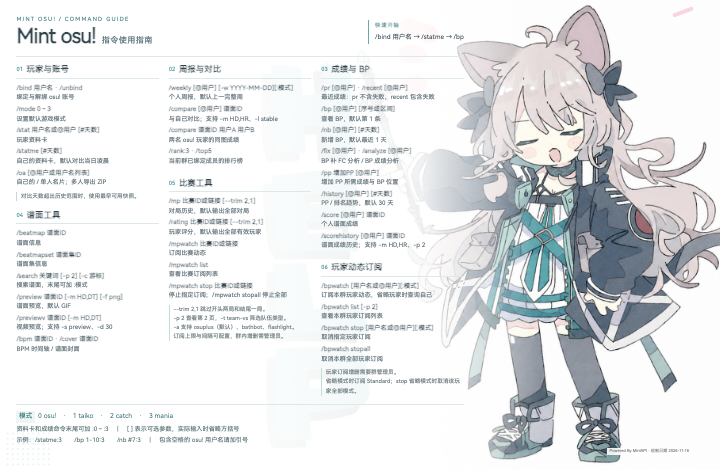
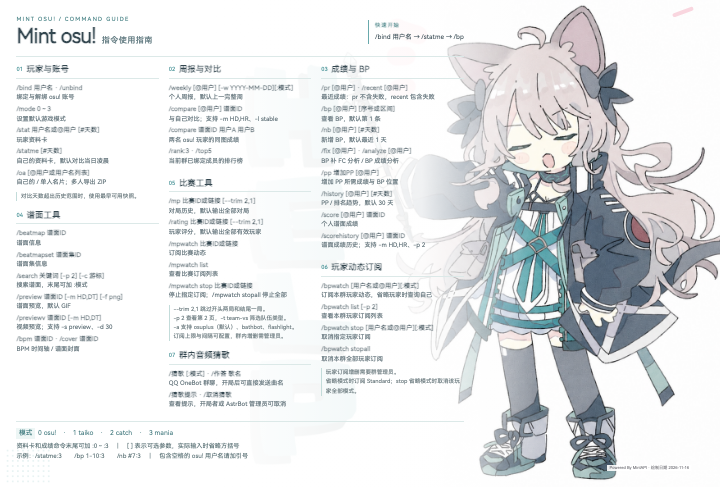
docs: :memo: 帮助海报加入群内音频猜歌

diff --git a/docs/designs/minthelp/minthelp.html b/docs/designs/minthelp/minthelp.html
@@ -2,6 +2,6 @@
 @font-face{font-family:Harmony;src:url('../../../MintAPI/wwwroot/fonts/HarmonyOS_Sans_SC_Regular.ttf')}*{box-sizing:border-box}html,body{margin:0;width:2800px;background:white;color:#344750;font-family:Harmony,'Arial',sans-serif}body{position:relative;min-height:1640px;padding:64px 64px 64px;isolation:isolate}.art{position:absolute;right:0;top:0;bottom:0;width:2000px;overflow:hidden;z-index:-2}.art img{position:absolute;height:100%;width:auto;max-width:none;right:-100px;top:0}.art:after{content:"";position:absolute;inset:0;background:linear-gradient(90deg,white 0%,rgba(255,255,255,.94) 25%,rgba(255,255,255,.90) 42%,rgba(255,255,255,.45) 55%,transparent 65%)}.ring{position:absolute;width:540px;height:540px;border:65px solid #eef7f6;border-radius:50%;right:65px;top:50px;z-index:-3}.dots{position:absolute;left:20px;bottom:16px;width:180px;height:140px;background:radial-gradient(#b8d9d9 2px,transparent 3px) 0 0/20px 20px;opacity:.5;z-index:-1}header{width:1740px;display:flex;align-items:center;justify-content:space-between;border-bottom:2px solid #dce9e8;padding-bottom:32px;margin-bottom:30px}.eyebrow{font-size:22px;letter-spacing:5px;color:#598e91}h1{font-size:80px;line-height:1.12;margin:8px 0 0;letter-spacing:-3px}h1 small{font-size:32px;letter-spacing:1px;font-weight:400;margin-left:24px;color:#698187}.start{border-left:4px solid #69a9ac;padding-left:24px;font-size:25px;line-height:1.8}.start b{font-size:21px;letter-spacing:3px;color:#598e91}.grid{display:grid;grid-template-columns:repeat(3,minmax(0,1fr));gap:38px;width:1740px;align-items:start}.column{display:flex;flex-direction:column;gap:36px}section{min-width:0}h2{display:flex;align-items:center;gap:14px;font-size:33px;margin:0 0 20px;padding-bottom:13px;border-bottom:2px solid #dce9e8}h2 i{font-style:normal;font-size:22px;color:#5b9ea2;font-weight:400}.entry{margin:0 0 12px}strong{font-size:25px;line-height:1.35;display:block;font-weight:600;overflow-wrap:anywhere}p{font-size:24px;line-height:1.4;color:#718087;margin:3px 0 0}aside{font-size:22px;line-height:1.6;color:#78868a;border-left:3px solid #c3dcda;padding-left:14px;margin-top:20px}footer{width:1740px;border-top:2px solid #dce9e8;margin-top:34px;padding-top:23px;font-size:24px;line-height:1.7;color:#61777b}.mode{color:#3f777c;font-size:26px;margin-bottom:7px}.tag{display:inline-block;background:#edf6f5;padding:0 10px;color:#457f83;margin-right:12px}.slash{position:absolute;right:100px;top:38px;width:85px;height:16px;background:#f9d6df;transform:rotate(-20deg);border-radius:12px}.mint-attribution{z-index:3!important;background:rgba(255,255,255,.9);padding:4px 8px!important}
 </style></head><body><div class="ring"></div><div class="art"><img src="../../../MintAPI/wwwroot/assets/help/minthelp-background-help.png" alt=""></div><div class="dots"></div><div class="slash"></div>
 <header><div><div class="eyebrow">MINT OSU! / COMMAND GUIDE</div><h1>Mint osu!<small>指令使用指南</small></h1></div><div class="start"><b>快速开始</b><br>/bind 用户名 → /statme → /bp</div></header>
-<main class="grid"><div class="column"><section><h2><i>01</i>玩家与账号</h2><div class="entry"><strong>/bind 用户名 · /unbind</strong><p>绑定与解绑 osu! 账号</p></div><div class="entry"><strong>/mode 0～3</strong><p>设置默认游戏模式</p></div><div class="entry"><strong>/stat 用户名或@用户 [#天数]</strong><p>玩家资料卡</p></div><div class="entry"><strong>/statme [#天数]</strong><p>自己的资料卡，默认对比当日凌晨</p></div><div class="entry"><strong>/oa [@用户或用户名列表]</strong><p>自己的 / 单人名片；多人导出 ZIP</p></div><aside>对比天数超出历史范围时，使用最早可用快照。</aside></section><section><h2><i>04</i>谱面工具</h2><div class="entry"><strong>/beatmap 谱面ID</strong><p>谱面信息</p></div><div class="entry"><strong>/beatmapset 谱面集ID</strong><p>谱面集信息</p></div><div class="entry"><strong>/search 关键词 [-p 2] [-c 游标]</strong><p>搜索谱面，末尾可加 :模式</p></div><div class="entry"><strong>/preview 谱面ID [-m HD,DT] [-f png]</strong><p>谱面预览，默认 GIF</p></div><div class="entry"><strong>/previewv 谱面ID [-m HD,DT]</strong><p>视频预览；支持 -s preview、-d 30</p></div><div class="entry"><strong>/bpm 谱面ID · /cover 谱面ID</strong><p>BPM 时间轴 / 谱面封面</p></div></section></div><div class="column"><section><h2><i>02</i>周报与对比</h2><div class="entry"><strong>/weekly [@用户] [-w YYYY-MM-DD][:模式]</strong><p>个人周报，默认上一完整周</p></div><div class="entry"><strong>/compare [@用户] 谱面ID</strong><p>与自己对比；支持 -m HD,HR、-l stable</p></div><div class="entry"><strong>/compare 谱面ID 用户A 用户B</strong><p>两名 osu! 玩家的同图成绩</p></div><div class="entry"><strong>/rank:3 · /top5</strong><p>当前群已绑定成员的排行榜</p></div></section><section><h2><i>05</i>比赛工具</h2><div class="entry"><strong>/mp 比赛ID或链接 [--trim 2,1]</strong><p>对局历史，默认输出全部对局</p></div><div class="entry"><strong>/rating 比赛ID或链接 [--trim 2,1]</strong><p>玩家评分，默认输出全部有效玩家</p></div><div class="entry"><strong>/mpwatch 比赛ID或链接</strong><p>订阅比赛动态</p></div><div class="entry"><strong>/mpwatch list</strong><p>查看比赛订阅列表</p></div><div class="entry"><strong>/mpwatch stop 比赛ID或链接</strong><p>停止指定订阅；/mpwatch stopall 停止全部</p></div><aside>--trim 2,1 跳过开头两局和结尾一局。<br>-p 2 查看第 2 页，-t team-vs 筛选队伍类型。<br>-a 支持 osuplus（默认）、bathbot、flashlight。<br>订阅上限与间隔可配置，群内增删需管理员。</aside></section></div><div class="column"><section><h2><i>03</i>成绩与 BP</h2><div class="entry"><strong>/pr [@用户] · /recent [@用户]</strong><p>最近成绩：pr 不含失败，recent 包含失败</p></div><div class="entry"><strong>/bp [@用户] [序号或区间]</strong><p>查看 BP，默认第 1 条</p></div><div class="entry"><strong>/nb [@用户] [#天数]</strong><p>新增 BP，默认最近 1 天</p></div><div class="entry"><strong>/fix [@用户] · /analyze [@用户]</strong><p>BP 补 FC 分析 / BP 成绩分析</p></div><div class="entry"><strong>/pp 增加PP [@用户]</strong><p>增加 PP 所需成绩与 BP 位置</p></div><div class="entry"><strong>/history [@用户] [#天数]</strong><p>PP / 排名趋势，默认 30 天</p></div><div class="entry"><strong>/score [@用户] 谱面ID</strong><p>个人谱面成绩</p></div><div class="entry"><strong>/scorehistory [@用户] 谱面ID</strong><p>谱面成绩历史；支持 -m HD,HR、-p 2</p></div></section><section><h2><i>06</i>玩家动态订阅</h2><div class="entry"><strong>/bpwatch [用户名或@用户][:模式]</strong><p>订阅本群玩家动态，省略玩家时查询自己</p></div><div class="entry"><strong>/bpwatch list [-p 2]</strong><p>查看本群玩家订阅列表</p></div><div class="entry"><strong>/bpwatch stop [用户名或@用户][:模式]</strong><p>取消指定玩家订阅</p></div><div class="entry"><strong>/bpwatch stopall</strong><p>取消本群全部玩家订阅</p></div><aside>玩家订阅增删需要群管理员。<br>省略模式时订阅 Standard；stop 省略模式时取消该玩家全部模式。</aside></section></div></main>
+<main class="grid"><div class="column"><section><h2><i>01</i>玩家与账号</h2><div class="entry"><strong>/bind 用户名 · /unbind</strong><p>绑定与解绑 osu! 账号</p></div><div class="entry"><strong>/mode 0～3</strong><p>设置默认游戏模式</p></div><div class="entry"><strong>/stat 用户名或@用户 [#天数]</strong><p>玩家资料卡</p></div><div class="entry"><strong>/statme [#天数]</strong><p>自己的资料卡，默认对比当日凌晨</p></div><div class="entry"><strong>/oa [@用户或用户名列表]</strong><p>自己的 / 单人名片；多人导出 ZIP</p></div><aside>对比天数超出历史范围时，使用最早可用快照。</aside></section><section><h2><i>04</i>谱面工具</h2><div class="entry"><strong>/beatmap 谱面ID</strong><p>谱面信息</p></div><div class="entry"><strong>/beatmapset 谱面集ID</strong><p>谱面集信息</p></div><div class="entry"><strong>/search 关键词 [-p 2] [-c 游标]</strong><p>搜索谱面，末尾可加 :模式</p></div><div class="entry"><strong>/preview 谱面ID [-m HD,DT] [-f png]</strong><p>谱面预览，默认 GIF</p></div><div class="entry"><strong>/previewv 谱面ID [-m HD,DT]</strong><p>视频预览；支持 -s preview、-d 30</p></div><div class="entry"><strong>/bpm 谱面ID · /cover 谱面ID</strong><p>BPM 时间轴 / 谱面封面</p></div></section></div><div class="column"><section><h2><i>02</i>周报与对比</h2><div class="entry"><strong>/weekly [@用户] [-w YYYY-MM-DD][:模式]</strong><p>个人周报，默认上一完整周</p></div><div class="entry"><strong>/compare [@用户] 谱面ID</strong><p>与自己对比；支持 -m HD,HR、-l stable</p></div><div class="entry"><strong>/compare 谱面ID 用户A 用户B</strong><p>两名 osu! 玩家的同图成绩</p></div><div class="entry"><strong>/rank:3 · /top5</strong><p>当前群已绑定成员的排行榜</p></div></section><section><h2><i>05</i>比赛工具</h2><div class="entry"><strong>/mp 比赛ID或链接 [--trim 2,1]</strong><p>对局历史，默认输出全部对局</p></div><div class="entry"><strong>/rating 比赛ID或链接 [--trim 2,1]</strong><p>玩家评分，默认输出全部有效玩家</p></div><div class="entry"><strong>/mpwatch 比赛ID或链接</strong><p>订阅比赛动态</p></div><div class="entry"><strong>/mpwatch list</strong><p>查看比赛订阅列表</p></div><div class="entry"><strong>/mpwatch stop 比赛ID或链接</strong><p>停止指定订阅；/mpwatch stopall 停止全部</p></div><aside>--trim 2,1 跳过开头两局和结尾一局。<br>-p 2 查看第 2 页，-t team-vs 筛选队伍类型。<br>-a 支持 osuplus（默认）、bathbot、flashlight。<br>订阅上限与间隔可配置，群内增删需管理员。</aside></section><section><h2><i>07</i>群内音频猜歌</h2><div class="entry"><strong>/猜歌 [:模式] · /作答 歌名</strong><p>QQ OneBot 群聊，开局后可直接发送曲名</p></div><div class="entry"><strong>/猜歌提示 · /取消猜歌</strong><p>查看提示，开局者或 AstrBot 管理员可取消</p></div></section></div><div class="column"><section><h2><i>03</i>成绩与 BP</h2><div class="entry"><strong>/pr [@用户] · /recent [@用户]</strong><p>最近成绩：pr 不含失败，recent 包含失败</p></div><div class="entry"><strong>/bp [@用户] [序号或区间]</strong><p>查看 BP，默认第 1 条</p></div><div class="entry"><strong>/nb [@用户] [#天数]</strong><p>新增 BP，默认最近 1 天</p></div><div class="entry"><strong>/fix [@用户] · /analyze [@用户]</strong><p>BP 补 FC 分析 / BP 成绩分析</p></div><div class="entry"><strong>/pp 增加PP [@用户]</strong><p>增加 PP 所需成绩与 BP 位置</p></div><div class="entry"><strong>/history [@用户] [#天数]</strong><p>PP / 排名趋势，默认 30 天</p></div><div class="entry"><strong>/score [@用户] 谱面ID</strong><p>个人谱面成绩</p></div><div class="entry"><strong>/scorehistory [@用户] 谱面ID</strong><p>谱面成绩历史；支持 -m HD,HR、-p 2</p></div></section><section><h2><i>06</i>玩家动态订阅</h2><div class="entry"><strong>/bpwatch [用户名或@用户][:模式]</strong><p>订阅本群玩家动态，省略玩家时查询自己</p></div><div class="entry"><strong>/bpwatch list [-p 2]</strong><p>查看本群玩家订阅列表</p></div><div class="entry"><strong>/bpwatch stop [用户名或@用户][:模式]</strong><p>取消指定玩家订阅</p></div><div class="entry"><strong>/bpwatch stopall</strong><p>取消本群全部玩家订阅</p></div><aside>玩家订阅增删需要群管理员。<br>省略模式时订阅 Standard；stop 省略模式时取消该玩家全部模式。</aside></section></div></main>
 <footer><div class="mode"><span class="tag">模式</span>0 osu!　·　1 taiko　·　2 catch　·　3 mania</div>资料卡和成绩命令末尾可加 :0～:3　｜　[ ] 表示可选参数，实际输入时省略方括号<br>示例：/statme:3　　/bp 1-10:3　　/nb #7:3　｜　包含空格的 osu! 用户名请加引号</footer>
 <style>.mint-attribution{position:relative;display:block;width:max-content;margin:10px 48px 0 auto;padding-bottom:12px;text-align:right;font:400 16px/18px Arial,'PingFang SC','Microsoft YaHei',sans-serif;color:#86868b;white-space:nowrap;letter-spacing:0;z-index:1;}</style><div class="mint-attribution">Powered By MintAPI · 绘制日期 2026-11-16</div></body></html>

diff --git a/MintAPI/Rendering/HelpTheme/help.html b/MintAPI/Rendering/HelpTheme/help.html
@@ -2,6 +2,6 @@
 @font-face{font-family:Harmony;src:url('__FONT__')}*{box-sizing:border-box}html,body{margin:0;width:2800px;background:white;color:#344750;font-family:Harmony,'Arial',sans-serif}body{position:relative;min-height:1640px;padding:64px 64px 64px;isolation:isolate}.art{position:absolute;right:0;top:0;bottom:0;width:2000px;overflow:hidden;z-index:-2}.art img{position:absolute;height:100%;width:auto;max-width:none;right:-100px;top:0}.art:after{content:"";position:absolute;inset:0;background:linear-gradient(90deg,white 0%,rgba(255,255,255,.94) 25%,rgba(255,255,255,.90) 42%,rgba(255,255,255,.45) 55%,transparent 65%)}.ring{position:absolute;width:540px;height:540px;border:65px solid #eef7f6;border-radius:50%;right:65px;top:50px;z-index:-3}.dots{position:absolute;left:20px;bottom:16px;width:180px;height:140px;background:radial-gradient(#b8d9d9 2px,transparent 3px) 0 0/20px 20px;opacity:.5;z-index:-1}header{width:1740px;display:flex;align-items:center;justify-content:space-between;border-bottom:2px solid #dce9e8;padding-bottom:32px;margin-bottom:30px}.eyebrow{font-size:22px;letter-spacing:5px;color:#598e91}h1{font-size:80px;line-height:1.12;margin:8px 0 0;letter-spacing:-3px}h1 small{font-size:32px;letter-spacing:1px;font-weight:400;margin-left:24px;color:#698187}.start{border-left:4px solid #69a9ac;padding-left:24px;font-size:25px;line-height:1.8}.start b{font-size:21px;letter-spacing:3px;color:#598e91}.grid{display:grid;grid-template-columns:repeat(3,minmax(0,1fr));gap:38px;width:1740px;align-items:start}.column{display:flex;flex-direction:column;gap:36px}section{min-width:0}h2{display:flex;align-items:center;gap:14px;font-size:33px;margin:0 0 20px;padding-bottom:13px;border-bottom:2px solid #dce9e8}h2 i{font-style:normal;font-size:22px;color:#5b9ea2;font-weight:400}.entry{margin:0 0 12px}strong{font-size:25px;line-height:1.35;display:block;font-weight:600;overflow-wrap:anywhere}p{font-size:24px;line-height:1.4;color:#718087;margin:3px 0 0}aside{font-size:22px;line-height:1.6;color:#78868a;border-left:3px solid #c3dcda;padding-left:14px;margin-top:20px}footer{width:1740px;border-top:2px solid #dce9e8;margin-top:34px;padding-top:23px;font-size:24px;line-height:1.7;color:#61777b}.mode{color:#3f777c;font-size:26px;margin-bottom:7px}.tag{display:inline-block;background:#edf6f5;padding:0 10px;color:#457f83;margin-right:12px}.slash{position:absolute;right:100px;top:38px;width:85px;height:16px;background:#f9d6df;transform:rotate(-20deg);border-radius:12px}.mint-attribution{z-index:3!important;background:rgba(255,255,255,.9);padding:4px 8px!important}
 </style></head><body><div class="ring"></div><div class="art"><img src="__BACKGROUND__" alt=""></div><div class="dots"></div><div class="slash"></div>
 <header><div><div class="eyebrow">MINT OSU! / COMMAND GUIDE</div><h1>Mint osu!<small>指令使用指南</small></h1></div><div class="start"><b>快速开始</b><br>/bind 用户名 → /statme → /bp</div></header>
-<main class="grid"><div class="column"><section><h2><i>01</i>玩家与账号</h2><div class="entry"><strong>/bind 用户名 · /unbind</strong><p>绑定与解绑 osu! 账号</p></div><div class="entry"><strong>/mode 0～3</strong><p>设置默认游戏模式</p></div><div class="entry"><strong>/stat 用户名或@用户 [#天数]</strong><p>玩家资料卡</p></div><div class="entry"><strong>/statme [#天数]</strong><p>自己的资料卡，默认对比当日凌晨</p></div><div class="entry"><strong>/oa [@用户或用户名列表]</strong><p>自己的 / 单人名片；多人导出 ZIP</p></div><aside>对比天数超出历史范围时，使用最早可用快照。</aside></section><section><h2><i>04</i>谱面工具</h2><div class="entry"><strong>/beatmap 谱面ID</strong><p>谱面信息</p></div><div class="entry"><strong>/beatmapset 谱面集ID</strong><p>谱面集信息</p></div><div class="entry"><strong>/search 关键词 [-p 2] [-c 游标]</strong><p>搜索谱面，末尾可加 :模式</p></div><div class="entry"><strong>/preview 谱面ID [-m HD,DT] [-f png]</strong><p>谱面预览，默认 GIF</p></div><div class="entry"><strong>/previewv 谱面ID [-m HD,DT]</strong><p>视频预览；支持 -s preview、-d 30</p></div><div class="entry"><strong>/bpm 谱面ID · /cover 谱面ID</strong><p>BPM 时间轴 / 谱面封面</p></div></section></div><div class="column"><section><h2><i>02</i>周报与对比</h2><div class="entry"><strong>/weekly [@用户] [-w YYYY-MM-DD][:模式]</strong><p>个人周报，默认上一完整周</p></div><div class="entry"><strong>/compare [@用户] 谱面ID</strong><p>与自己对比；支持 -m HD,HR、-l stable</p></div><div class="entry"><strong>/compare 谱面ID 用户A 用户B</strong><p>两名 osu! 玩家的同图成绩</p></div><div class="entry"><strong>/rank:3 · /top5</strong><p>当前群已绑定成员的排行榜</p></div></section><section><h2><i>05</i>比赛工具</h2><div class="entry"><strong>/mp 比赛ID或链接 [--trim 2,1]</strong><p>对局历史，默认输出全部对局</p></div><div class="entry"><strong>/rating 比赛ID或链接 [--trim 2,1]</strong><p>玩家评分，默认输出全部有效玩家</p></div><div class="entry"><strong>/mpwatch 比赛ID或链接</strong><p>订阅比赛动态</p></div><div class="entry"><strong>/mpwatch list</strong><p>查看比赛订阅列表</p></div><div class="entry"><strong>/mpwatch stop 比赛ID或链接</strong><p>停止指定订阅；/mpwatch stopall 停止全部</p></div><aside>--trim 2,1 跳过开头两局和结尾一局。<br>-p 2 查看第 2 页，-t team-vs 筛选队伍类型。<br>-a 支持 osuplus（默认）、bathbot、flashlight。<br>订阅上限与间隔可配置，群内增删需管理员。</aside></section></div><div class="column"><section><h2><i>03</i>成绩与 BP</h2><div class="entry"><strong>/pr [@用户] · /recent [@用户]</strong><p>最近成绩：pr 不含失败，recent 包含失败</p></div><div class="entry"><strong>/bp [@用户] [序号或区间]</strong><p>查看 BP，默认第 1 条</p></div><div class="entry"><strong>/nb [@用户] [#天数]</strong><p>新增 BP，默认最近 1 天</p></div><div class="entry"><strong>/fix [@用户] · /analyze [@用户]</strong><p>BP 补 FC 分析 / BP 成绩分析</p></div><div class="entry"><strong>/pp 增加PP [@用户]</strong><p>增加 PP 所需成绩与 BP 位置</p></div><div class="entry"><strong>/history [@用户] [#天数]</strong><p>PP / 排名趋势，默认 30 天</p></div><div class="entry"><strong>/score [@用户] 谱面ID</strong><p>个人谱面成绩</p></div><div class="entry"><strong>/scorehistory [@用户] 谱面ID</strong><p>谱面成绩历史；支持 -m HD,HR、-p 2</p></div></section><section><h2><i>06</i>玩家动态订阅</h2><div class="entry"><strong>/bpwatch [用户名或@用户][:模式]</strong><p>订阅本群玩家动态，省略玩家时查询自己</p></div><div class="entry"><strong>/bpwatch list [-p 2]</strong><p>查看本群玩家订阅列表</p></div><div class="entry"><strong>/bpwatch stop [用户名或@用户][:模式]</strong><p>取消指定玩家订阅</p></div><div class="entry"><strong>/bpwatch stopall</strong><p>取消本群全部玩家订阅</p></div><aside>玩家订阅增删需要群管理员。<br>省略模式时订阅 Standard；stop 省略模式时取消该玩家全部模式。</aside></section></div></main>
+<main class="grid"><div class="column"><section><h2><i>01</i>玩家与账号</h2><div class="entry"><strong>/bind 用户名 · /unbind</strong><p>绑定与解绑 osu! 账号</p></div><div class="entry"><strong>/mode 0～3</strong><p>设置默认游戏模式</p></div><div class="entry"><strong>/stat 用户名或@用户 [#天数]</strong><p>玩家资料卡</p></div><div class="entry"><strong>/statme [#天数]</strong><p>自己的资料卡，默认对比当日凌晨</p></div><div class="entry"><strong>/oa [@用户或用户名列表]</strong><p>自己的 / 单人名片；多人导出 ZIP</p></div><aside>对比天数超出历史范围时，使用最早可用快照。</aside></section><section><h2><i>04</i>谱面工具</h2><div class="entry"><strong>/beatmap 谱面ID</strong><p>谱面信息</p></div><div class="entry"><strong>/beatmapset 谱面集ID</strong><p>谱面集信息</p></div><div class="entry"><strong>/search 关键词 [-p 2] [-c 游标]</strong><p>搜索谱面，末尾可加 :模式</p></div><div class="entry"><strong>/preview 谱面ID [-m HD,DT] [-f png]</strong><p>谱面预览，默认 GIF</p></div><div class="entry"><strong>/previewv 谱面ID [-m HD,DT]</strong><p>视频预览；支持 -s preview、-d 30</p></div><div class="entry"><strong>/bpm 谱面ID · /cover 谱面ID</strong><p>BPM 时间轴 / 谱面封面</p></div></section></div><div class="column"><section><h2><i>02</i>周报与对比</h2><div class="entry"><strong>/weekly [@用户] [-w YYYY-MM-DD][:模式]</strong><p>个人周报，默认上一完整周</p></div><div class="entry"><strong>/compare [@用户] 谱面ID</strong><p>与自己对比；支持 -m HD,HR、-l stable</p></div><div class="entry"><strong>/compare 谱面ID 用户A 用户B</strong><p>两名 osu! 玩家的同图成绩</p></div><div class="entry"><strong>/rank:3 · /top5</strong><p>当前群已绑定成员的排行榜</p></div></section><section><h2><i>05</i>比赛工具</h2><div class="entry"><strong>/mp 比赛ID或链接 [--trim 2,1]</strong><p>对局历史，默认输出全部对局</p></div><div class="entry"><strong>/rating 比赛ID或链接 [--trim 2,1]</strong><p>玩家评分，默认输出全部有效玩家</p></div><div class="entry"><strong>/mpwatch 比赛ID或链接</strong><p>订阅比赛动态</p></div><div class="entry"><strong>/mpwatch list</strong><p>查看比赛订阅列表</p></div><div class="entry"><strong>/mpwatch stop 比赛ID或链接</strong><p>停止指定订阅；/mpwatch stopall 停止全部</p></div><aside>--trim 2,1 跳过开头两局和结尾一局。<br>-p 2 查看第 2 页，-t team-vs 筛选队伍类型。<br>-a 支持 osuplus（默认）、bathbot、flashlight。<br>订阅上限与间隔可配置，群内增删需管理员。</aside></section><section><h2><i>07</i>群内音频猜歌</h2><div class="entry"><strong>/猜歌 [:模式] · /作答 歌名</strong><p>QQ OneBot 群聊，开局后可直接发送曲名</p></div><div class="entry"><strong>/猜歌提示 · /取消猜歌</strong><p>查看提示，开局者或 AstrBot 管理员可取消</p></div></section></div><div class="column"><section><h2><i>03</i>成绩与 BP</h2><div class="entry"><strong>/pr [@用户] · /recent [@用户]</strong><p>最近成绩：pr 不含失败，recent 包含失败</p></div><div class="entry"><strong>/bp [@用户] [序号或区间]</strong><p>查看 BP，默认第 1 条</p></div><div class="entry"><strong>/nb [@用户] [#天数]</strong><p>新增 BP，默认最近 1 天</p></div><div class="entry"><strong>/fix [@用户] · /analyze [@用户]</strong><p>BP 补 FC 分析 / BP 成绩分析</p></div><div class="entry"><strong>/pp 增加PP [@用户]</strong><p>增加 PP 所需成绩与 BP 位置</p></div><div class="entry"><strong>/history [@用户] [#天数]</strong><p>PP / 排名趋势，默认 30 天</p></div><div class="entry"><strong>/score [@用户] 谱面ID</strong><p>个人谱面成绩</p></div><div class="entry"><strong>/scorehistory [@用户] 谱面ID</strong><p>谱面成绩历史；支持 -m HD,HR、-p 2</p></div></section><section><h2><i>06</i>玩家动态订阅</h2><div class="entry"><strong>/bpwatch [用户名或@用户][:模式]</strong><p>订阅本群玩家动态，省略玩家时查询自己</p></div><div class="entry"><strong>/bpwatch list [-p 2]</strong><p>查看本群玩家订阅列表</p></div><div class="entry"><strong>/bpwatch stop [用户名或@用户][:模式]</strong><p>取消指定玩家订阅</p></div><div class="entry"><strong>/bpwatch stopall</strong><p>取消本群全部玩家订阅</p></div><aside>玩家订阅增删需要群管理员。<br>省略模式时订阅 Standard；stop 省略模式时取消该玩家全部模式。</aside></section></div></main>
 <footer><div class="mode"><span class="tag">模式</span>0 osu!　·　1 taiko　·　2 catch　·　3 mania</div>资料卡和成绩命令末尾可加 :0～:3　｜　[ ] 表示可选参数，实际输入时省略方括号<br>示例：/statme:3　　/bp 1-10:3　　/nb #7:3　｜　包含空格的 osu! 用户名请加引号</footer>
 </body></html>
